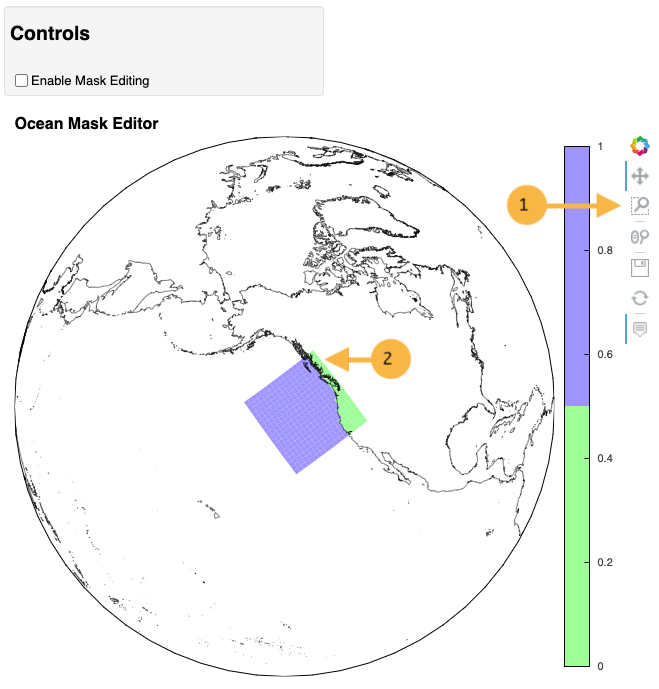
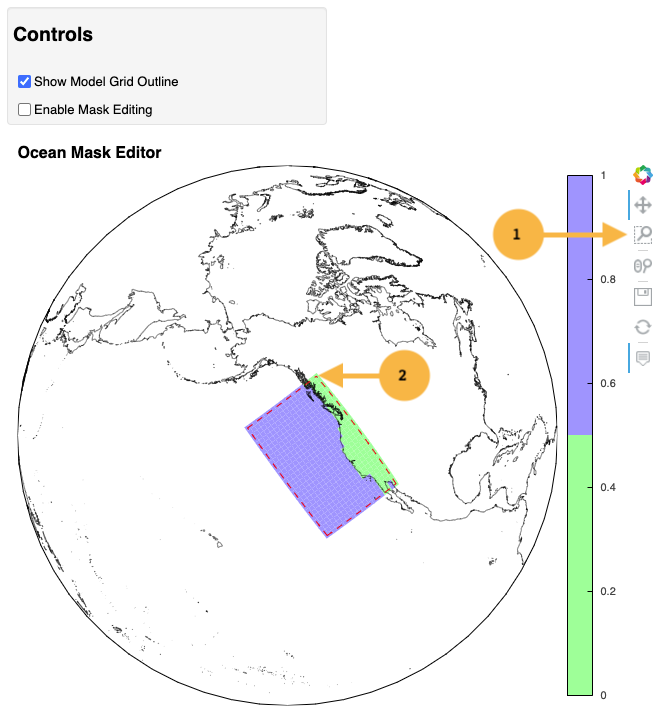
Documentation updates and bug fixes
- Remove unneeded import from example 09b
 - Documentation updates
 - Mask editor sometimes does not show up when the jupyter
   notebook is run.  Restart jupyter session worked in this case.
 - BUG: Fixed drawing of grid edges; grid was clipped on high side
   of x and y grid
 - BUG: Fixed recentering of grid subset area.  Have to check the
   clicked point and bring that back to model grid area first before
   doing additional bounds checks.
 - In xarray dataset .sel statements, slice requires the shape location
   and the dimension wants the array location.

diff --git a/gridtools/app.py b/gridtools/app.py
@@ -1035,26 +1035,35 @@ class maskEditor(object):
 
         grdShape = grd.shape
 
+        # First check the bounds of the click
+        # If out of bounds, bring back to nearest
+        # grid edge.
+        if lClickY < 0:
+            lClickY = 0
+        if lClickX < 0:
+            lClickX = 0
+        if lClickY > grdShape[0]:
+            lClickY = grdShape[0]
+        if lClickX > grdShape[1]:
+            lClickX = grdShape[1]
+
         firstY = lClickY - self.gridSubset
         lastY = lClickY + self.gridSubset
         firstX = lClickX - self.gridSubset
         lastX = lClickX + self.gridSubset
 
+        # Now check grid extent
         if firstY < 0:
             firstY = 0
-            lastY = self.gridSubset - 1
 
         if firstX < 0:
             firstX = 0
-            lastX = self.gridSubset - 1
 
-        if lastY > grdShape[0]-1:
-            firstY = grdShape[0] - self.gridSubset
-            lastY = grdShape[0] - 1
+        if lastY > grdShape[0]:
+            lastY = grdShape[0]
 
-        if lastX > grdShape[1]-1:
-            firstX = grdShape[1] - self.gridSubset
-            lastX = grdShape[1] - 1
+        if lastX > grdShape[1]:
+            lastX = grdShape[1]
 
         return [firstY, lastY, firstX, lastX]
 
@@ -1115,28 +1124,29 @@ class maskEditor(object):
             # REF: https://hvplot.holoviz.org/user_guide/Geographic_Data.html#declaring-an-output-projection
             fullGrid = [(x-1) for x in self.da.shape]
             # When drawing a path, it has to follow around the edge of the grid
+            # Drawing is fine on Example 9b
             plt = self.da.sel(ny = slice(gy1, gy2), nx = slice(gx1, gx2)).hvplot.quadmesh(
                 'lon', 'lat', 'mask', projection = self.crs, global_extent=True,
                 frame_height=540,
                 cmap=hv.plotting.util.process_cmap(self.customCM),
                 coastline='10m',
                 clim=(0,1))\
-            * self.da.sel(ny = slice(0, fullGrid[0]), nx = 0).hvplot.paths(
+            * self.da.sel(ny = slice(0, fullGrid[0]+1), nx = 0).hvplot.paths(
                 'lon', 'lat', projection = self.crs, global_extent=True,
                 color='red', size=1, hover=False, line_dash='dashed',
                 frame_height=540)\
-            * self.da.sel(ny = fullGrid[0], nx = slice(0, fullGrid[1])).hvplot.paths(
+            * self.da.sel(ny = fullGrid[0], nx = slice(0, fullGrid[1]+1)).hvplot.paths(
                 'lon', 'lat', projection = self.crs, global_extent=True,
                 color='red', size=1, hover=False, line_dash='dashed',
                 frame_height=540)\
-            * self.da.sel(ny = slice(fullGrid[0], 0, -1), nx = fullGrid[1]).hvplot.paths(
+            * self.da.sel(ny = slice(0, fullGrid[0]+1), nx = fullGrid[1]).hvplot.paths(
+                'lon', 'lat', projection = self.crs, global_extent=True,
+                color='red', size=1, hover=False, line_dash='dashed',
+                frame_height=540)\
+            * self.da.sel(ny = 0, nx = slice(0, fullGrid[1]+1)).hvplot.paths(
                 'lon', 'lat', projection = self.crs, global_extent=True,
                 color='red', size=1, hover=False, line_dash='dashed',
                 frame_height=540)
-            #* self.da.sel(ny = 0, nx = slice(0, fullGrid[1])).hvplot.paths(
-            #    'lon', 'lat', projection = self.crs, global_extent=True,
-            #    color='red', size=1, hover=False, line_dash='dashed',
-            #    frame_height=540)
             opt_kwargs = dict()
             plt.opts(title='Ocean Mask Editor', **opt_kwargs)
         else:

diff --git a/source/applications/appMaskEditorPylab.rst b/source/applications/appMaskEditorPylab.rst
@@ -1,15 +1,98 @@
+.. _pylab-mask-editor:
+
 *****************
 Pylab Mask Editor
 *****************
 
-This section goes into greater detail on the controls
-of the pylab mask editor application.
+The pylab mask editor is a port of the ROMS grid mask
+editor.  This editor can be started in two ways.
+
+The editor will require **X** windows to be operational
+and properly forwarded if starting the application on
+a remote system.
+
+**ipython**
+
+At a command prompt, start **ipython** with **pylab**.
+
+.. code-block:: bash
+
+    % ipython --pylab
+
+    Python 3.7.10 | packaged by conda-forge | (default, Feb 19 2021, 16:07:37)
+    Type 'copyright', 'credits' or 'license' for more information
+    IPython 7.24.1 -- An enhanced Interactive Python. Type '?' for help.
+    Using matplotlib backend: Qt5Agg
+
+Then, type or copy and paste code into ipython to launch the
+editor.  Changes will be retained in memory.  At the conclusion
+of editing, use additional python commands to write out the
+new grid mask.
+
+.. code-block:: python
+
+    In [1]: import os, sys
+       ...: from gridtools.gridutils import GridUtils
+       ...: from gridtools.grids import roms
+       ...: from pyproj import Proj
+       ...: import cartopy.crs as ccrs
+       ...:
+       ...: # Set a place to write files
+       ...: os.environ["ROMS_GRIDID_FILE"] = "/import/AKWATERS/jrcermakiii/configs/ROMS/gridid.txt"
+       ...: wrkDir = '/import/AKWATERS/jrcermakiii/configs/zOutput'
+       ...: inputDir = os.path.join(wrkDir, 'INPUT')
+       ...:
+       ...: grd = GridUtils()
+       ...:
+       ...: romsObj = roms.ROMS()
+       ...: romsGrd = romsObj.get_ROMS_grid('ARCTIC6')
+       ...:
+       ...: map_proj = ccrs.Stereographic(central_latitude=90.0, central_longitude=160.0)
+       ...:
+       ...: plotObj = romsObj.edit_mask_mesh(romsGrd.hgrid, proj=map_proj)
+
+.. image:: pylabEditor1.png
+
+.. code-block:: python
+
+    In [2]: #...post-editing commands...
+
+**jupyter**
+
+Using jupyter, use the magic function ``%pylab`` to activate
+`pylab interactive support <https://ipython.readthedocs.io/en/stable/interactive/magics.html#magic-pylab>`_.
+
+[]::
+
+    # Enable pylab
+    %pylab
+
+[]::
+
+    # Load a ROMS grid
+    import os
+    from gridtools.grids import roms
+    import cartopy.crs as ccrs
+    import xarray as xr
+
+[]::
+
+    # Define a map projection
+    map_proj = ccrs.Stereographic(central_latitude=90.0, central_longitude=160.0)
+
+    # Use the gridid.txt file
+    os.environ["ROMS_GRIDID_FILE"] = "/import/AKWATERS/jrcermakiii/configs/ROMS/gridid.txt"
+
+    romsObj = roms.ROMS()
+    romsGrd = romsObj.get_ROMS_grid('ARCTIC6')
+
+    # Start the pylab editor
+    plotObj = romsObj.edit_mask_mesh(romsGrd.hgrid, proj=map_proj)
 
 Here is the pylab mask editor application after startup:
 
 .. image:: pylabEditor1.png
 
-Here is a a look at a grid within the pylab mask editor
-using the zoom feature:
+Here is a zoomed in view of the pylab mask editor:
 
 .. image:: pylabEditor2.png

diff --git a/source/tutorials/editJupyter.rst b/source/tutorials/editJupyter.rst
@@ -1,2 +1,68 @@
-Edit a grid using Jupyter
-=========================
+.. _edit-grid-jupyter-tutorial:
+
+Edit a grid mask using Jupyter
+==============================
+
+A jupyter notebook was written for editing the
+ocean mask for a model grid.
+
+The first step is to load the ocean mask for
+a model grid.
+
+::
+
+    # Import needed python modules
+    import os, sys
+    from gridtools.gridutils import GridUtils
+    from gridtools.app import maskEditor
+    import cartopy.crs as ccrs
+
+    # Define the model grid directory
+    # For existing MOM6 grids, this is often an "INPUT" directory
+    wrkDir = '/import/AKWATERS/jrcermakiii/configs/zOutput'
+    inputDir = os.path.join(wrkDir, 'INPUT')
+
+    # Create a gridtools object
+    grd = GridUtils()
+
+    # Read the ocean mask
+    oceanMask = grd.openDataset(os.path.join(wrkDir, 'ocean_mask_Example7.nc'))
+
+    # The mask editor requires 'lat' and 'lon' coordinates for mapping.
+    # For MOM6, the x and y dimensions are renamed to lon and lat
+    oceanMask = oceanMask.rename({
+        'x': 'lon',
+        'y': 'lat'
+    })
+    oceanMask = oceanMask.set_coords(['lon', 'lat'])
+
+    # Set a map projection for the mask editor
+    crs = ccrs.Orthographic(-140, 45)
+
+    # Create the mask editor
+    appObj = maskEditor(crs=crs, ds=oceanMask['mask'])
+    app = appObj.createMaskEditorApp()
+    display(app)
+
+This will launch the map editor within the jupyter notebook.
+
+.. figure:: MaskEditor2.png
+
+When editing is complete, use and additional jupyter cells to save
+the edited ocean mask variable ``oceanMask``.
+
+To keep this cell from running when starting the mask editor, the
+``runBlock`` is set to False.  When it is time to save the new mask,
+set ``runBlock`` to True and run the cell.
+
+::
+
+    runBlock = False
+
+    if runBlock:
+        # Save the new mask without coordinates
+        newMask = oceanMask['mask'].copy()
+        newMask = newMask.reset_coords(names = ['lat', 'lon'])
+        grd.saveDataset(os.path.join(wrkDir, 'ocean_mask_new_Example7.nc'), newMask,
+                        overwrite=True, mapVariables = {'lon': 'x', 'lat': 'y'},
+                        hashVariables = ['mask', 'x', 'y'])

diff --git a/source/applications/appMaskEditorJupyter.rst b/source/applications/appMaskEditorJupyter.rst
@@ -7,7 +7,13 @@ Jupyter Mask Editor
 Once a model grid is read and a map projection created, the application
 can be launched with these commands in a jupyter notebook cell::
 
-    # Set a map projection
+    # Import needed python modules
+    import os, sys
+    from gridtools.gridutils import GridUtils
+    from gridtools.app import maskEditor
+    import cartopy.crs as ccrs
+
+    # Set a map projection for the mask editor
     map_crs = ccrs.Orthographic(-160, 90)
 
     # Create the mask editor
@@ -17,3 +23,12 @@ can be launched with these commands in a jupyter notebook cell::
 
 The map editor should display after the cell is run.
 
+.. image:: ../tutorials/MaskEditor.png
+
+For more information, see ":ref:`edit-grid-jupyter-tutorial`".
+
+**Troubleshooting**
+
+If the application does not show, the jupyter lab session may
+need to be restarted.  Errors in the gridtools library also
+may prevent the application from showing.

diff --git a/docs/development/CHANGELOG.md b/docs/development/CHANGELOG.md
@@ -1,5 +1,19 @@
 # Changelog
 
+# 2021-07-22
+
+ - Remove unneeded import from example 09b
+ - Documentation updates
+ - Mask editor sometimes does not show up when the jupyter
+   notebook is run.  Restart jupyter session worked in this case.
+ - BUG: Fixed drawing of grid edges; grid was clipped on high side
+   of x and y grid
+ - BUG: Fixed recentering of grid subset area.  Have to check the
+   clicked point and bring that back to model grid area first before
+   doing additional bounds checks.
+ - In xarray dataset .sel statements, slice requires the shape location
+   and the dimension wants the array location.
+
 # 2021-07-20
 
  - Documentation updates

diff --git a/source/tutorials/editPylab.rst b/source/tutorials/editPylab.rst
@@ -1,2 +1,12 @@
-Edit a grid with pylab
-======================
+Edit a grid mask with pylab
+===========================
+
+The pylab grid mask editor was initially written for the
+ROMS ocean model.  It has been ported to gridtools and
+will operate on ROMS grids.  The editor needs to be
+updated to work more efficiently with ROMS and MOM6
+grids.
+
+See ":ref:`pylab-mask-editor`" for instructions on how
+to launch the tool.  The function call to write the
+ROMS grid is the same as the pyroms tool.

diff --git a/source/tutorials/build.rst b/source/tutorials/build.rst
@@ -116,9 +116,3 @@ make the grid::
 For systems with smaller amounts of memory,
 `example #6 <https://github.com/ESMG/gridtools/blob/exp/rel031/examples/mkGridsExample06.py>`_
 constructs a mini IBCAO grid with fewer grid points.
-
-.. toctree::
-   :maxdepth: 1
-
-   buildJupyter
-   buildScript

diff --git a/docs/development/python/libraries/bokeh.md b/docs/development/python/libraries/bokeh.md
@@ -1,0 +1,7 @@
+# bokeh
+
+Debugging this application can be tricky.  This has not proven
+true yet, but in case of problems, try setting
+`BOKEH_DEV` to `true` before starting jupyter lab.
+
+REF: [Environment Variables](https://docs.bokeh.org/en/latest/docs/dev_guide/env_vars.html)

diff --git a/docs/development/python/libraries/xarray.md b/docs/development/python/libraries/xarray.md
@@ -1,0 +1,10 @@
+# xarray
+
+## sel
+
+When using the selection method for xarray, the dimensions want
+array location.  If slice() is used, be sure to use the shape
+value to select the entire array.
+
+Reverse slices do odd things: slice(9, 0, -1)
+
